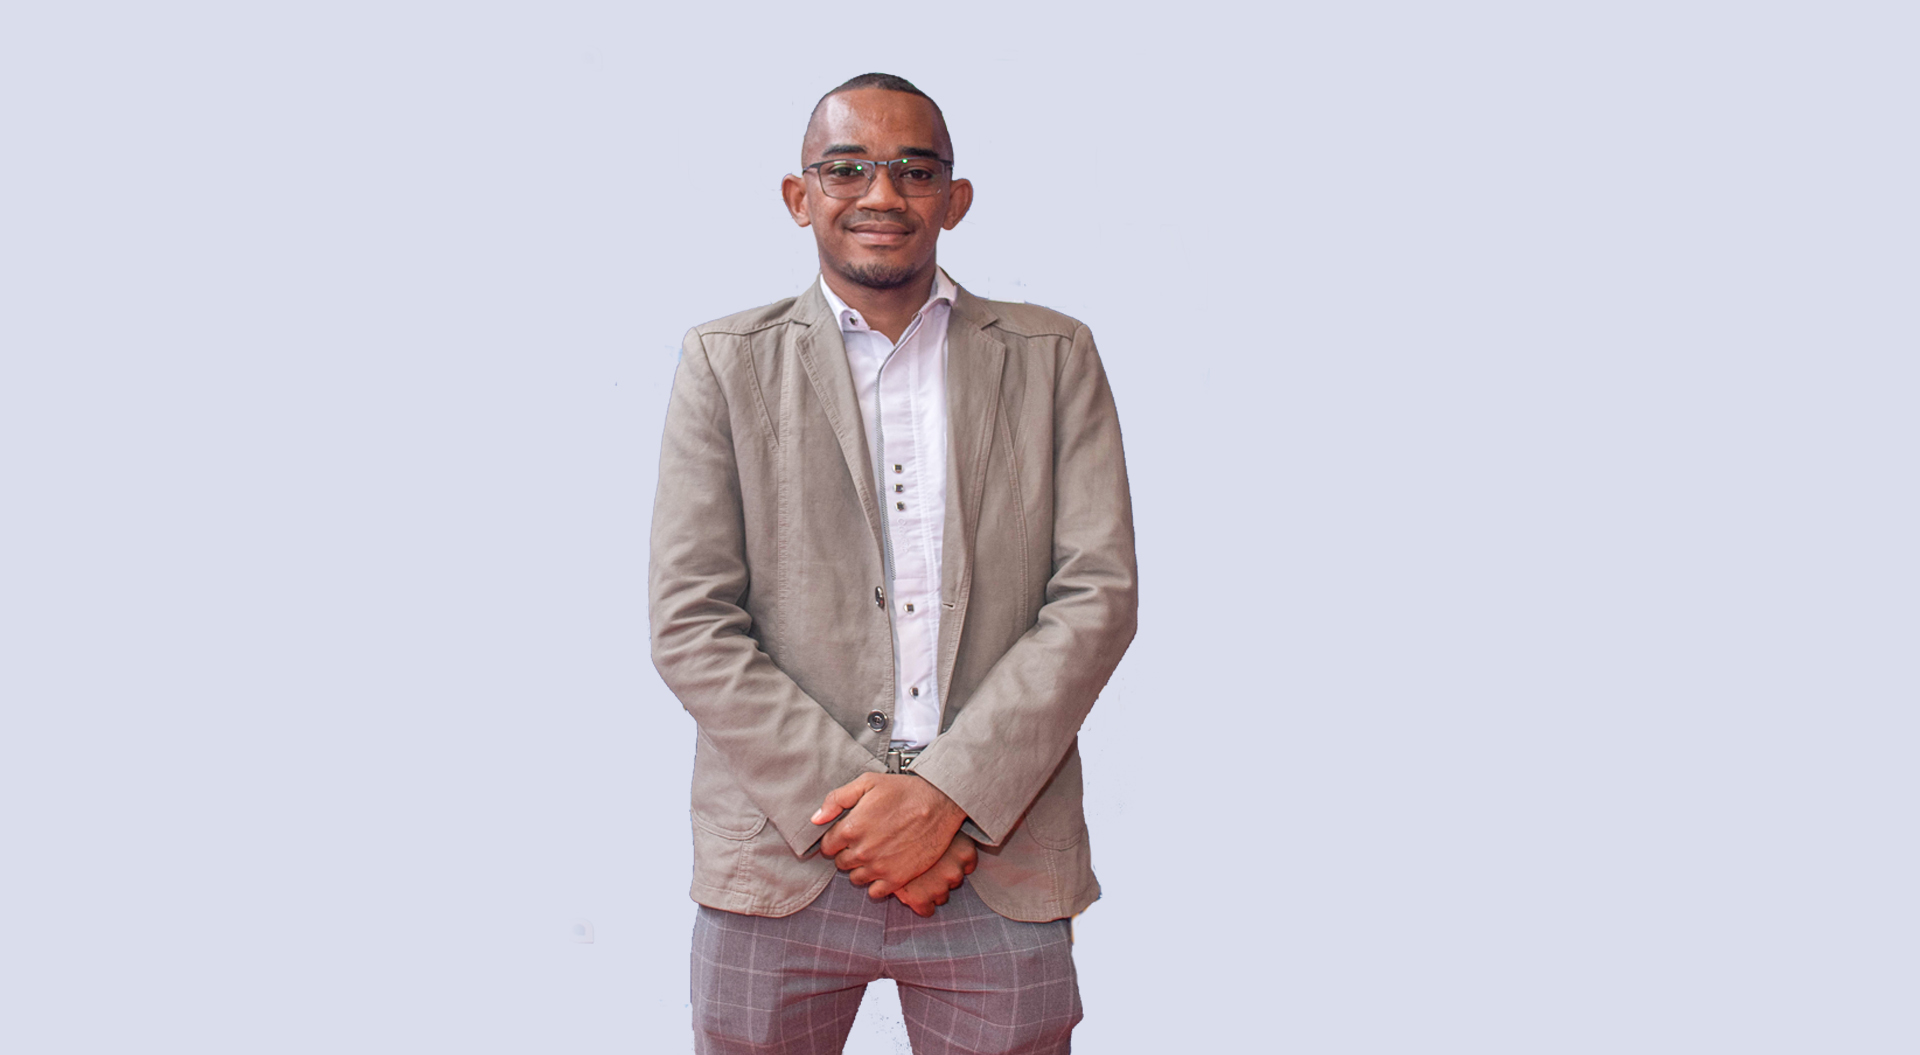
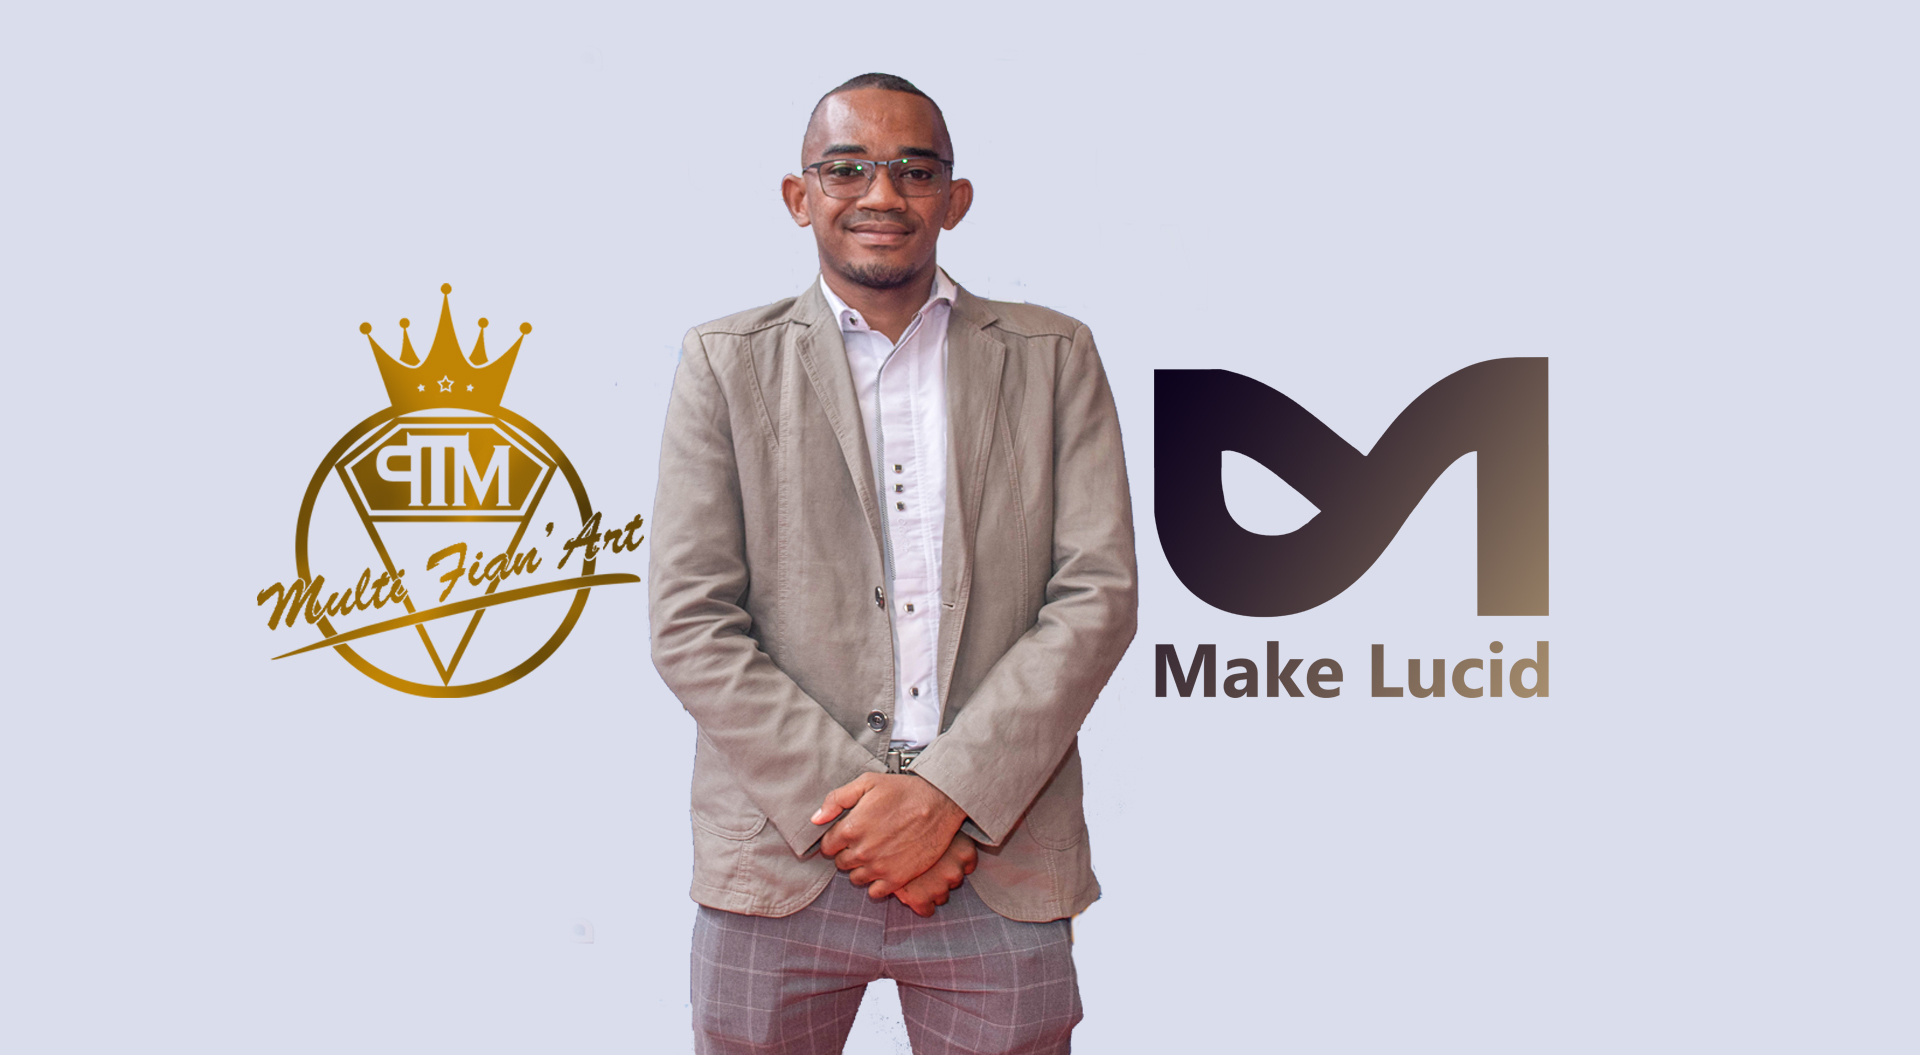
animation & maj Hero Bg

Changed region(s): [[0.5938, 0.3336, 0.8125, 0.6673], [0.125, 0.273, 0.3438, 0.6673]]

diff --git a/src/components/main/About.js b/src/components/main/About.js
@@ -1,5 +1,6 @@
 import React from "react";
 import profileImage from '../../assets/images/profileImage.jpg';
+import chearchIdea from '../../assets/animations/chearchIdea.gif';
 
 const About = () => {
 
@@ -8,6 +9,10 @@ const About = () => {
         'aria-valuenow' : '75',
         'aria-valuemin' : '0',
         'aria-valuemax' : '100'
+    }
+
+    const styleChearchIdea = {
+        width: '60%'
     }
 
     return (
@@ -66,6 +71,9 @@ const About = () => {
                                                 <li><a href="https://www.linkedin.com/in/marjean-claude-andriamahatradraibe"><span className="ico-circle"><i className="bi bi-linkedin"></i></span></a></li>
                                             </ul>
                                         </div>
+                                        <div >
+                                            <img src={chearchIdea} style={styleChearchIdea}/>
+                                        </div>
                                     </div>
                                 </div>
                                 <div className="col-md-6 text-start">
@@ -80,7 +88,6 @@ const About = () => {
                                         <div><span>CSS</span></div>
                                         <div><span>JQuery</span></div>
                                         <div><span>React JS</span></div>
-                                        <div><span>D3 JS</span></div>
                                         <div><span>Symfony</span></div>
                                         <div><span>Code Igniter</span></div>
                                         <hr/>
@@ -89,9 +96,6 @@ const About = () => {
                                         <hr/>
                                         <div><span><b>Modeling language</b></span></div>
                                         <div><span>UML</span>
-                                        <hr/>
-                                        <div><span><b>Modeling language</b></span></div>
-                                        <div><span>UML</span></div>
                                         <hr/>
                                         <div><span><b>versioning system</b></span></div>
                                         <div><span>Git</span></div>
